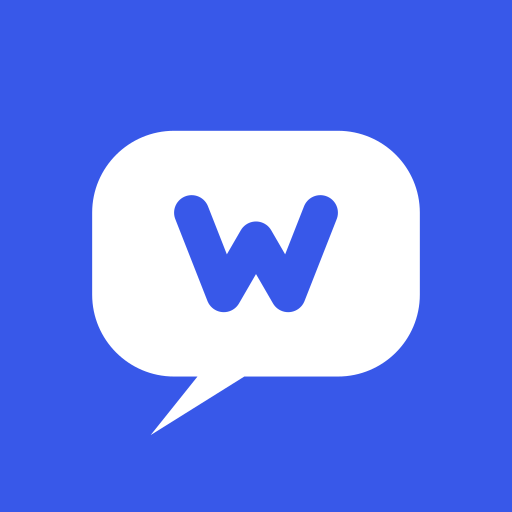
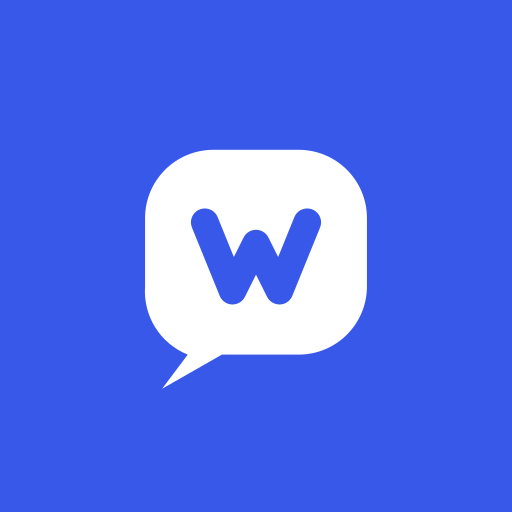
App-Symbol nach Messenger-Vorbild ueberarbeiten
Die Blase klebte am Rand: nur 1,8 Einheiten Abstand zur Sicherheitszone, der
Schweif reichte bis 85,2 bei einer Grenze von 87.

Dabei die Form gleich mit angesehen. Gaengige Messenger-Symbole haben einen
fast quadratischen Koerper mit grossem Eckradius und einen kurzen,
angewachsenen Schweif. Unserer war mit 56 zu 42 laenglich, der Schweif ein
duenner Stachel.

Vier Blasenformen und vier Schweife gerendert und vermessen. Zwei Varianten
sind dabei ausgeschieden: eine runde Blase mit separatem Dreieck - wie bei
Signal gedacht - sah gebrochen aus, der Schweif hing als loser Splitter
daneben; ebenso die Fassung mit dem Schweif als eigenem Eckdreieck.

Neu: Koerper 52x48 mit Radius 16, kurzer breiter Schweif, W mit 6,5 statt 6
Strichstaerke. Randabstand 5,3 statt 1,8. Der Versatz von 1 haelt den
Flaechenschwerpunkt bei 53,5 - ohne ihn laege er bei 52,5 und die Marke
wirkte wieder nach oben gerutscht.

Angewendet auf alle drei Varianten und die beiden Play-Store-Grafiken.

Changed region(s): [[0.1562, 0.25, 0.8438, 0.8438], [0.3438, 0.375, 0.6562, 0.625], [0.4688, 0.5625, 0.5312, 0.5938]]

diff --git a/CHANGELOG.md b/CHANGELOG.md
@@ -174,11 +174,20 @@ vergeben. Alles Unveröffentlichte steht unter `[Unreleased]`.
 
 **Android-App**
 
-- Benachrichtigungen melden jetzt jeden neuen Kommentar, nicht mehr nur
-  solche, die auf Moderation warten. Auf Blogs, die Kommentare automatisch
-  freischalten, kam zuvor nie eine Benachrichtigung an – dort gibt es nichts
-  mit Status „offen“. Ein Schalter in den Einstellungen beschränkt die Meldung
-  wieder auf die Moderationswarteschlange.
+- App-Symbol nach dem Muster gängiger Messenger überarbeitet: fast
+  quadratischer Blasenkörper mit großem Eckradius statt eines länglichen, und
+  ein kurzer angewachsener Schweif statt eines dünnen Stachels. Die Marke hält
+  jetzt rund 5 Einheiten Abstand zur Sicherheitszone statt 1,8.
+
+- Benachrichtigungen lassen sich in drei Stufen einstellen: nur was auf
+  Moderation wartet, jeder neue Kommentar (Voreinstellung), oder zusätzlich
+  Spam und Papierkorb. Zuvor wurde nur die Moderationswarteschlange geprüft –
+  auf Blogs, die Kommentare automatisch freischalten, kam deshalb nie eine
+  Benachrichtigung an. Was ein Spamfilter aussortiert hat, bleibt in der
+  Voreinstellung außen vor; die dritte Stufe macht Fehleinstufungen sichtbar.
+- Kommentatoren ohne Gravatar bekommen ein eigenes Platzhaltersymbol statt der
+  Silhouette von Gravatar. Dafür fragt die App `d=404` statt `d=mm` an.
+  Avatar-Adressen anderer Dienste bleiben unangetastet.
 - Umschalten zwischen den Filtern kostet keine Netzanfragen mehr, solange der
   Stand jünger als zwei Minuten ist. Zuvor löste jeder Tipp auf einen Filter
   bis zu neun Anfragen aus – Liste, Beitragstitel, Rechteabfrage und
